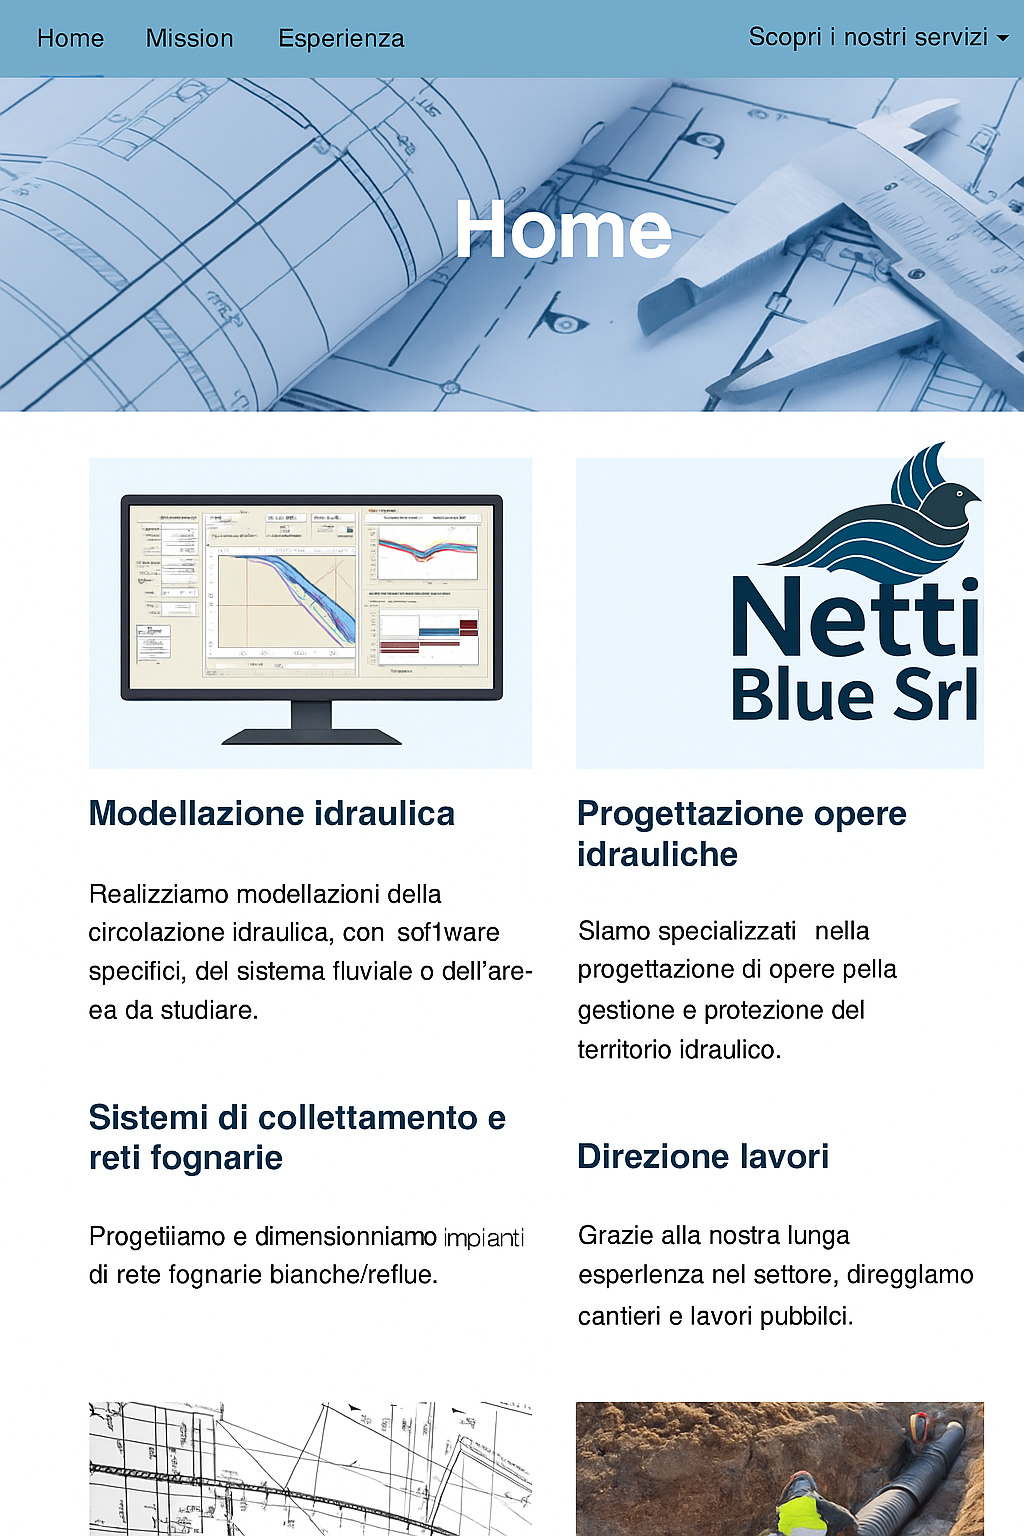
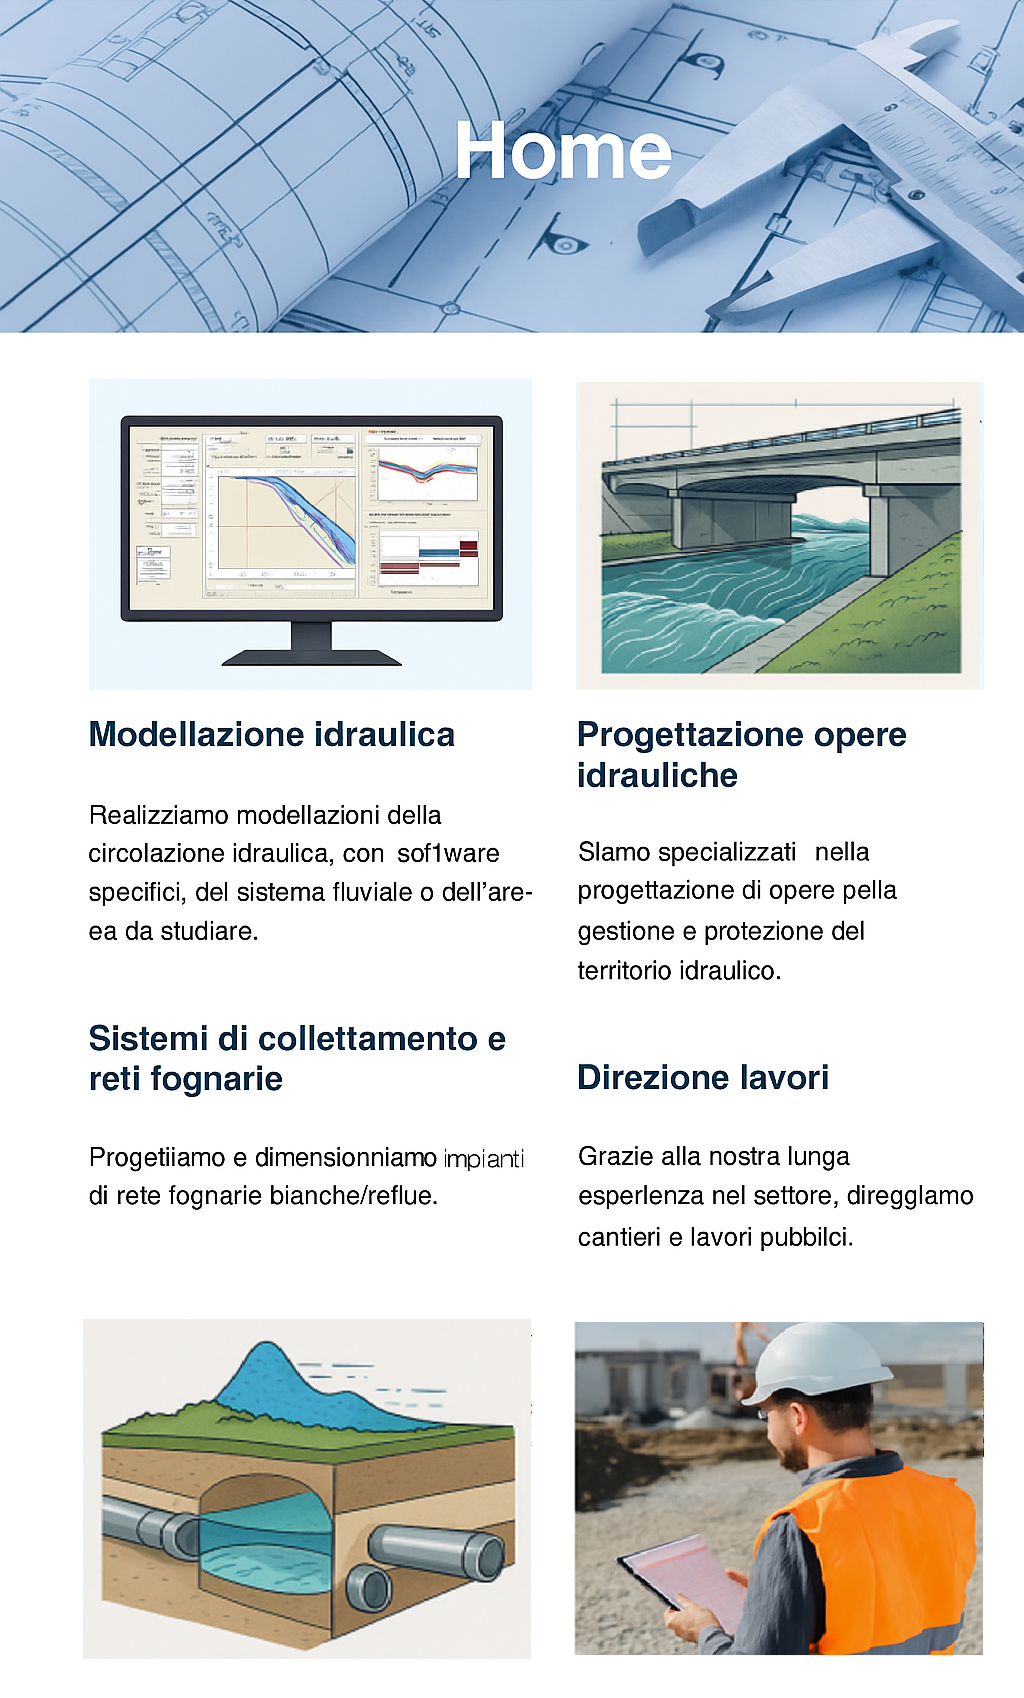
Add files via upload

diff --git a/index.html b/index.html
@@ -46,14 +46,33 @@
     <img src="img/homepage.png" alt="Servizi Nefti Blue" class="service-img" />
   </section>
 
-  <section id="progetti">
-    <h2>Progetti</h2>
-    <p>Abbiamo realizzato studi e progettazioni per clienti pubblici e privati in Lombardia, Piemonte, Lazio e altre regioni.</p>
+    <section id="progetti">
+    <h2>Progetti selezionati</h2>
+    <div class="grid">
+      <div class="project-card">
+        <h3>PULIECO SRL – Ospedaletto Lodigiano</h3>
+        <p>Studio reti bianche/nere, vasche prima pioggia, progetto invarianza idraulica.</p>
+      </div>
+      <div class="project-card">
+        <h3>Eco Eridania – San Giuliano Milanese</h3>
+        <p>Progettazione rete fognaria, vasche di laminazione, studio idrologico.</p>
+      </div>
+      <div class="project-card">
+        <h3>Comune di Pezzana (VC)</h3>
+        <p>Impianto di sollevamento – progetto esecutivo su incarico comunale.</p>
+      </div>
+    </div>
   </section>
+
 
   <section id="contatti">
     <h2>Contatti</h2>
-    <p>Email: neftiengineering@gmail.com<br>Indirizzo: Via Colle Eghezzone 5, Lodi</p>
+    <form class="contact-form">
+      <input type="text" placeholder="Nome">
+      <input type="email" placeholder="Email">
+      <textarea rows="4" placeholder="Messaggio"></textarea>
+      <button type="submit">Invia</button>
+    </form>
+    <p>Email: neftiengineering@gmail.com<br>Indirizzo: Via Colle Eghezzone 5, 26900 Lodi</p>
   </section>
-</body>
-</html>
+
